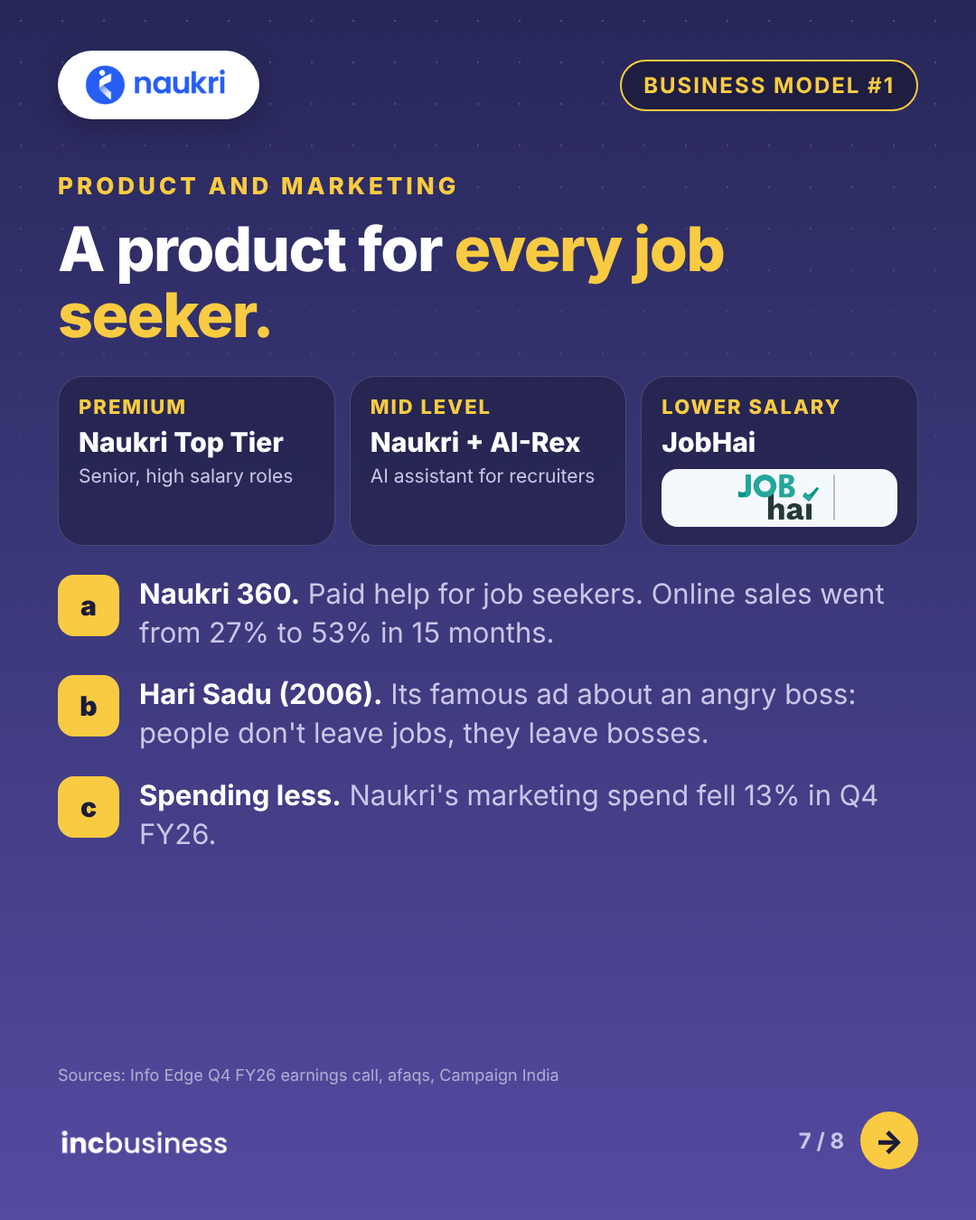
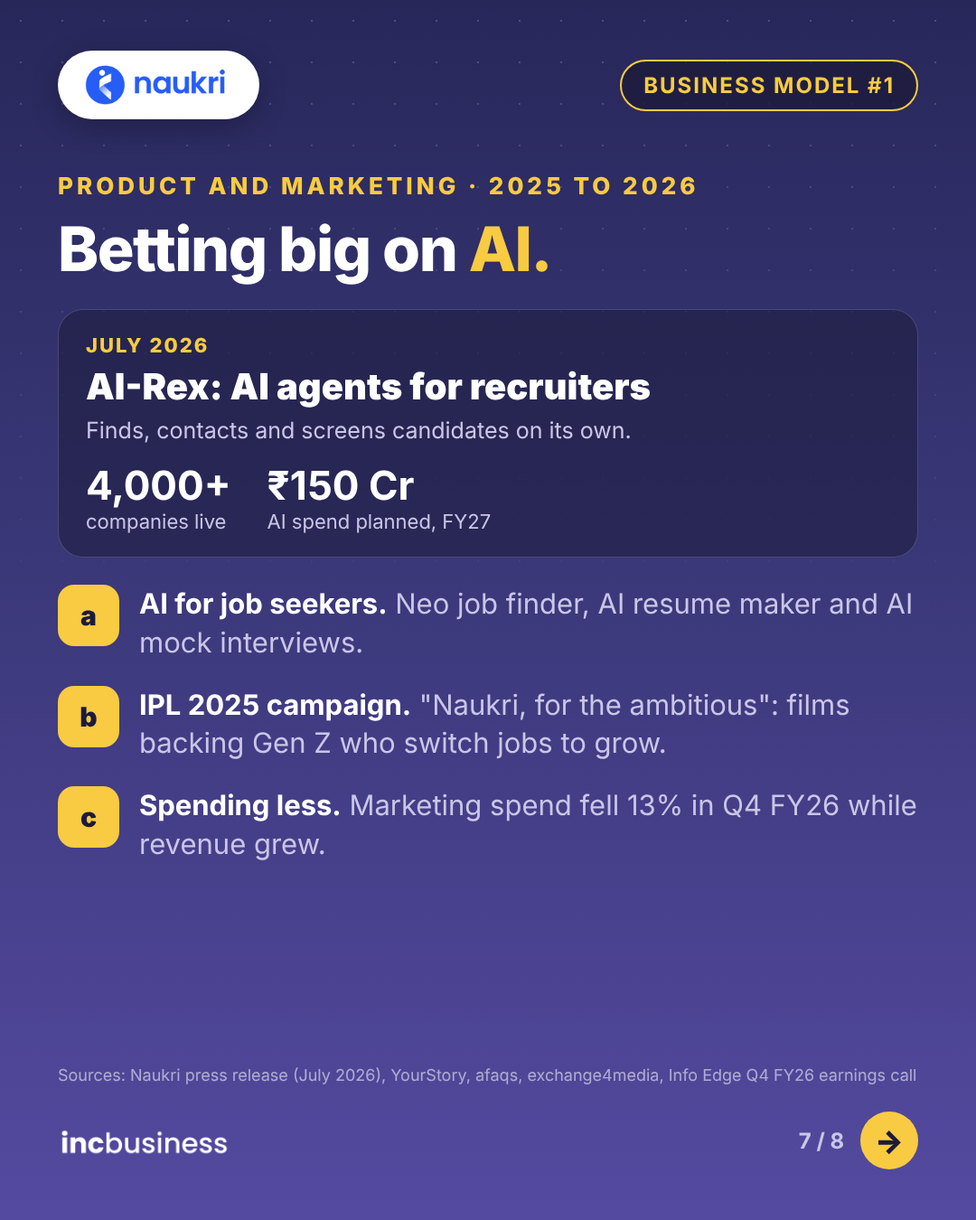
Replace marketing sections with 2025-2026 campaigns and products; update Naukri slide 7
Claude-Session: https://claude.ai/code/session_01LRpu7HcvJNnoqYBKXriVUx

diff --git a/carousels/info-edge/slides.js b/carousels/info-edge/slides.js
@@ -160,32 +160,34 @@ module.exports = {
       source: 'FY26 standalone figures. Source: Info Edge Q4 FY26 earnings call',
     },
 
-    // 7. Product and marketing
+    // 7. Product and marketing (latest: 2025 and 2026)
     {
       css: COMMON + `
-        .tiers { display:grid; grid-template-columns: repeat(3, 1fr); gap: 16px; margin-top: 30px; }
-        .tiers .card { padding: 20px 22px; }
-        .tiers .h { font-size: 22px; font-weight: 800; letter-spacing: 2px; color: var(--amber); }
-        .tiers .b { font-size: 30px; font-weight: 800; margin-top: 8px; }
-        .tiers .s { font-size: 21px; color: var(--sub); margin-top: 6px; line-height:1.3; }
-        .tiers .lt { height: 64px; margin-top: 12px; padding: 6px 12px; }
-        .pts { margin-top: 32px; gap: 26px; }
+        .ai { margin-top: 30px; padding: 26px 30px; }
+        .ai .h { font-size: 22px; font-weight: 800; letter-spacing: 2px; color: var(--amber); }
+        .ai .b { font-size: 40px; font-weight: 900; margin-top: 8px; }
+        .ai .s { font-size: 25px; color: var(--sub); margin-top: 8px; line-height: 1.35; }
+        .ai .nums { display:flex; gap: 40px; margin-top: 16px; }
+        .ai .nums div { font-size: 22px; color: var(--sub); }
+        .ai .nums b { display:block; font-size: 44px; color: #fff; }
+        .pts { margin-top: 30px; gap: 26px; }
         .pt .t { font-size: 31px; }
       `,
       html: `
-        <div class="eyebrow">Product and marketing</div>
-        <h1>A product for <span class="hl">every job seeker.</span></h1>
-        <div class="tiers">
-          <div class="card"><div class="h">PREMIUM</div><div class="b">Naukri Top Tier</div><div class="s">Senior, high salary roles</div></div>
-          <div class="card"><div class="h">MID LEVEL</div><div class="b">Naukri + AI-Rex</div><div class="s">AI assistant for recruiters</div></div>
-          <div class="card"><div class="h">LOWER SALARY</div><div class="b">JobHai</div>${tile('jobhai', 52)}</div>
+        <div class="eyebrow">Product and marketing · 2025 to 2026</div>
+        <h1>Betting big on <span class="hl">AI.</span></h1>
+        <div class="card ai">
+          <div class="h">JULY 2026</div>
+          <div class="b">AI-Rex: AI agents for recruiters</div>
+          <div class="s">Finds, contacts and screens candidates on its own.</div>
+          <div class="nums"><div><b>4,000+</b>companies live</div><div><b>₹150 Cr</b>AI spend planned, FY27</div></div>
         </div>
         <div class="pts">
-          <div class="pt"><div class="k">a</div><div class="t"><b>Naukri 360.</b> <span>Paid help for job seekers. Online sales went from 27% to 53% in 15 months.</span></div></div>
-          <div class="pt"><div class="k">b</div><div class="t"><b>Hari Sadu (2006).</b> <span>Its famous ad about an angry boss: people don't leave jobs, they leave bosses.</span></div></div>
-          <div class="pt"><div class="k">c</div><div class="t"><b>Spending less.</b> <span>Naukri's marketing spend fell 13% in Q4 FY26.</span></div></div>
+          <div class="pt"><div class="k">a</div><div class="t"><b>AI for job seekers.</b> <span>Neo job finder, AI resume maker and AI mock interviews.</span></div></div>
+          <div class="pt"><div class="k">b</div><div class="t"><b>IPL 2025 campaign.</b> <span>"Naukri, for the ambitious": films backing Gen Z who switch jobs to grow.</span></div></div>
+          <div class="pt"><div class="k">c</div><div class="t"><b>Spending less.</b> <span>Marketing spend fell 13% in Q4 FY26 while revenue grew.</span></div></div>
         </div>`,
-      source: 'Sources: Info Edge Q4 FY26 earnings call, afaqs, Campaign India',
+      source: 'Sources: Naukri press release (July 2026), YourStory, afaqs, exchange4media, Info Edge Q4 FY26 earnings call',
     },
 
     // 8. Numbers + CTA

diff --git a/content/blog/apollo-hospitals-business-model.md b/content/blog/apollo-hospitals-business-model.md
@@ -110,21 +110,27 @@ Apollo earns from **three revenue streams**:
 
 ## 7. Apollo Hospitals Product and Marketing Strategy
 
-### a) ProHealth: Bringing Healthy People to Apollo
-- ProHealth is Apollo's preventive health check program. It uses AI to predict health risks and suggest lifestyle changes.
-- In May 2026, Apollo made music composer Anirudh Ravichander the face of ProHealth, to reach young working professionals.
+Here is what Apollo is doing now (2026).
+
+### a) "Always Open, Always Here" (August 2026)
+- Apollo hospitals now offer doctor visits, tests, health checks and planned procedures **on Sundays too**, not just emergencies.
+- The message: you don't have to take a weekday off work to see a doctor.
+
+### b) ProHealth With Anirudh Ravichander (May 2026)
+- ProHealth is Apollo's AI powered health check that predicts health risks early.
+- Music composer Anirudh Ravichander is its new face, to reach young working professionals.
 - The campaign runs on TV, print, digital, FM radio, social media and outdoor ads.
 
-### b) Apollo 24/7 Keeps Patients Connected
-- ProHealth is linked to the Apollo 24/7 app, which sends reminders and tracks progress.
-- The same app is used for doctor consultations, medicine delivery and lab tests, so patients stay with Apollo between hospital visits.
+### c) AI With Microsoft
+- Apollo is building AI copilots with Microsoft for doctors, patients, nurses and hospital operations.
+- In 2026 it opened a 400 bed hospital in Hyderabad's Financial District, built with an AI layer for clinical support.
 
-### c) Health of the Nation Report
-- Apollo publishes a yearly "Health of the Nation" report on health trends in India.
-- It uses the findings, like rising obesity, high blood pressure and early diabetes in young adults, to show why regular health checks matter.
+### d) Apollo 24/7 Keeps Patients Connected
+- ProHealth is linked to the Apollo 24/7 app for reminders and progress tracking.
+- The app handled **₹2,037 crore** of transactions in FY26, up 24%.
 
-### d) Care for International Patients
-- Apollo runs special services and health check packages for patients who travel to India for treatment.
+### e) Health of the Nation Report
+- Apollo's yearly report on India's health. The 2026 edition flags rising obesity, high blood pressure and early diabetes in young professionals, which supports the ProHealth push.
 
 ## 8. Apollo Hospitals Competitors
 
@@ -171,7 +177,7 @@ Hospital chains like Max Healthcare, Fortis, Narayana Health, Medanta, Manipal a
 
 ### Sources
 
-[DSIJ (FY26 results)](https://insights.dsij.in/dsijarticledetail/apollo-hospitals-reports-q4fy26-results-pat-jumps-to-rs-551-crore-announces-rs-10-dividend-id021-57243) · [InvestyWise (FY26 results)](https://www.investywise.com/apollo-hospitals-enterprise-limited-financial-results-and-strategic-developments/) · [The Doctorpreneur Academy](https://thedoctorpreneuracademy.com/apollo-hospitals-reports-strong-quarterly-financial-growth/) · [India Med Today (Q4 segments)](https://indiamedtoday.com/apollo-hospitals-q4-strong-but-expansion-led-margin-pressure-seen-in-fy27/) · [DSIJ report](https://insights.dsij.in/markets/reports/report-details/apollo-hospitals-enterprise-ltd/44073) · [Quartr (FY26 segments)](https://quartr.com/events/apollo-hospitals-enterprise-limited-apollohosp-q4-25-26_FYSsn3Zb) · [AlphaStreet (Q3 FY26)](https://alphastreet.com/india/apollo-hospitals-delivers-strong-q3-fy26-growth-amid-segment-diversification) · [Business Standard broker note (payer mix)](https://bsmedia.business-standard.com/_media/bs/data/market-reports/equity-brokertips/2025-08/17551573320.25509800.pdf) · [Share.Market (Apollo 24/7)](https://www.share.market/buzz/news/apollo-24-7-breakeven/) · [Business Today (AHLL formats)](https://www.businesstoday.in/amp/latest/corporate/story/apollo-health-lifestyle-raises-rs-450-crore-from-ifc-to-fund-expansion-65808-2016-12-02) · [Outlook Business](https://www.outlookbusiness.com/amp/story/corporate/apollo-hospitals-q4-pat-grows-33-to-5513-crore) · [FundsIndia](https://fundsindia.com/blog/equities/alpha-apollo-hospitals-enterprise-ltd-equity-research-desk-4/34237) · [Business Today (founder story)](https://www.businesstoday.in/interactive/photo-essay/doctor-father-entrepreneur-here-s-what-makes-apollo-hospitals-founder-dr-prathap-c-reddy-one-of-india-s-best-known-business-tycoons-192-12-03-2024) · [Financial Express interview (Apollo site)](https://apollohospitals.com/financial-express-interviews-dr-prathap-c-reddy-chairman-apollo-hospitals-group) · [Wikipedia](https://en.wikipedia.org/wiki/Apollo_Hospitals) · [YourStory](https://yourstory.com/2020/08/apollo-hospitals-founder-prathap-reddy) · [Business Standard (Advent)](https://www.business-standard.com/markets/news/apollo-hospitals-slips-8-on-stake-sale-in-ahl-keimed-merger-124042900198_1.html) · [Sahi (listing target)](https://sahi.com/news/apollo-hospitals-targets-25-000-crore-healthco-revenue-and-q4-fy27-demerger-listing-326-PE1_CORP) · [Basis Point](https://www.basispointinsight.com/Story/apollo-demerger-recasts-it-as-a-pure-play-hospital-story_6aaa9dbb589b.html) · [Digital Health News](https://www.digitalhealthnews.com/apollo-healthco-keimed-merger-targets-inr-25-000-cr-revenue-by-fy27) · [The Week (CCI approval)](https://www.theweek.in/wire-updates/business/2025/09/23/dcm134-biz-cci-apollo-hospitals.html) · [Motilal Oswal (peers)](https://www.motilaloswal.com/share-market/peer-comparison/max-healthcare-institute-ltd) · [Value Research (peers)](https://www.valueresearchonline.com/stocks/270996/max-healthcare-institute-ltd/peer-comparison/) · [StartupTalky (MedPlus)](https://startuptalky.com/medplus-success-story/) · [CB Insights](https://www.cbinsights.com/company/net-meds-marketplace/alternatives-competitors)
+[PR Newswire (Always Open, Always Here)](https://www.prnewswire.com/news-releases/apollo-hospitals-launches-always-open-always-here-a-global-first-in-healthcare-from-india-302856496.html) · [The Tribune (Always Open)](https://www.tribuneindia.com/news/business/apollo-hospitals-launches-always-open-always-here-a-global-first-in-healthcare-from-india-2-2) · [MediaBrief (ProHealth, Anirudh)](https://mediabrief.com/apollo-hospitals-names-music-composer-anirudh-ravichander-brand-ambassador-for-prohealth/) · [Apollo press releases](https://www.apollohospitals.com/press-release) · [Digital Health News (Microsoft copilots)](https://www.digitalhealthnews.com/apollo-hospitals-partners-with-microsoft-to-advance-ai-in-healthcare) · [Microsoft (Apollo case study)](https://www.microsoft.com/en-in/aifirstmovers/FY26Apollo) · [Healthcare IT News](https://www.healthcareitnews.com/news/asia/apollo-hospitals-enters-next-phase-digital-transformation) · [DSIJ (FY26 results)](https://insights.dsij.in/dsijarticledetail/apollo-hospitals-reports-q4fy26-results-pat-jumps-to-rs-551-crore-announces-rs-10-dividend-id021-57243) · [InvestyWise (FY26 results)](https://www.investywise.com/apollo-hospitals-enterprise-limited-financial-results-and-strategic-developments/) · [The Doctorpreneur Academy](https://thedoctorpreneuracademy.com/apollo-hospitals-reports-strong-quarterly-financial-growth/) · [India Med Today (Q4 segments)](https://indiamedtoday.com/apollo-hospitals-q4-strong-but-expansion-led-margin-pressure-seen-in-fy27/) · [DSIJ report](https://insights.dsij.in/markets/reports/report-details/apollo-hospitals-enterprise-ltd/44073) · [Quartr (FY26 segments)](https://quartr.com/events/apollo-hospitals-enterprise-limited-apollohosp-q4-25-26_FYSsn3Zb) · [AlphaStreet (Q3 FY26)](https://alphastreet.com/india/apollo-hospitals-delivers-strong-q3-fy26-growth-amid-segment-diversification) · [Business Standard broker note (payer mix)](https://bsmedia.business-standard.com/_media/bs/data/market-reports/equity-brokertips/2025-08/17551573320.25509800.pdf) · [Share.Market (Apollo 24/7)](https://www.share.market/buzz/news/apollo-24-7-breakeven/) · [Business Today (AHLL formats)](https://www.businesstoday.in/amp/latest/corporate/story/apollo-health-lifestyle-raises-rs-450-crore-from-ifc-to-fund-expansion-65808-2016-12-02) · [Outlook Business](https://www.outlookbusiness.com/amp/story/corporate/apollo-hospitals-q4-pat-grows-33-to-5513-crore) · [FundsIndia](https://fundsindia.com/blog/equities/alpha-apollo-hospitals-enterprise-ltd-equity-research-desk-4/34237) · [Business Today (founder story)](https://www.businesstoday.in/interactive/photo-essay/doctor-father-entrepreneur-here-s-what-makes-apollo-hospitals-founder-dr-prathap-c-reddy-one-of-india-s-best-known-business-tycoons-192-12-03-2024) · [Financial Express interview (Apollo site)](https://apollohospitals.com/financial-express-interviews-dr-prathap-c-reddy-chairman-apollo-hospitals-group) · [Wikipedia](https://en.wikipedia.org/wiki/Apollo_Hospitals) · [YourStory](https://yourstory.com/2020/08/apollo-hospitals-founder-prathap-reddy) · [Business Standard (Advent)](https://www.business-standard.com/markets/news/apollo-hospitals-slips-8-on-stake-sale-in-ahl-keimed-merger-124042900198_1.html) · [Sahi (listing target)](https://sahi.com/news/apollo-hospitals-targets-25-000-crore-healthco-revenue-and-q4-fy27-demerger-listing-326-PE1_CORP) · [Basis Point](https://www.basispointinsight.com/Story/apollo-demerger-recasts-it-as-a-pure-play-hospital-story_6aaa9dbb589b.html) · [Digital Health News](https://www.digitalhealthnews.com/apollo-healthco-keimed-merger-targets-inr-25-000-cr-revenue-by-fy27) · [The Week (CCI approval)](https://www.theweek.in/wire-updates/business/2025/09/23/dcm134-biz-cci-apollo-hospitals.html) · [Motilal Oswal (peers)](https://www.motilaloswal.com/share-market/peer-comparison/max-healthcare-institute-ltd) · [Value Research (peers)](https://www.valueresearchonline.com/stocks/270996/max-healthcare-institute-ltd/peer-comparison/) · [StartupTalky (MedPlus)](https://startuptalky.com/medplus-success-story/) · [CB Insights](https://www.cbinsights.com/company/net-meds-marketplace/alternatives-competitors)
 
 ## GEO Schema (copy this)
 
@@ -204,7 +210,7 @@ Hospital chains like Max Healthcare, Fortis, Narayana Health, Medanta, Manipal a
           "name": "Apollo Hospitals Enterprise Ltd"
         }
       ],
-      "wordCount": 1120,
+      "wordCount": 1154,
       "inLanguage": "en-IN"
     },
     {
@@ -353,5 +359,5 @@ Open Graph Description: Hospitals bring in half the money, pharmacies most of th
 Alt Text (hero image): Apollo Hospitals business model overview
 Author: Author Name
 Published Date: 2026-10-17
-Word Count: 1120
+Word Count: 1154
 ```

diff --git a/content/blog/info-edge-business-model.md b/content/blog/info-edge-business-model.md
@@ -91,26 +91,31 @@ Here's how Naukri makes money, and the rest of Info Edge too. Info Edge earns fr
 
 ## 6. Info Edge Product and Marketing Strategy
 
-The Naukri marketing strategy and product plan, in four parts.
+Here is what Naukri and Info Edge are doing now (2025 and 2026).
 
-### a) Naukri: A Product for Every Type of Hiring
-- **Premium jobs:** Naukri Top Tier focuses on senior and high salary roles.
-- **Mid level jobs:** Naukri's core platform, where Info Edge calls itself the clear leader. AI-Rex, an AI assistant, helps recruiters find and screen candidates faster.
+### a) AI-Rex: AI Agents for Recruiters (July 2026)
+- A set of AI agents that refine the job brief, find candidates, reach out to them and screen them.
+- Live with **4,000+ companies and recruitment firms**. Talent Pulse, a tool to compare salaries and plan hiring, has 600+ paying customers.
+
+### b) AI for Job Seekers
+- **Neo**, an AI agent that finds jobs for you, plus an AI resume maker and AI mock interviews.
+- Info Edge spent about ₹70 crore on AI in FY26 and plans about ₹150 crore in FY27.
+
+### c) A Product for Every Type of Hiring
+- **Premium:** Naukri Top Tier for senior, high salary roles.
+- **Mid level:** Naukri's core platform with AI-Rex.
 - **Lower salary jobs:** JobHai, a free jobs app with paid extras.
+- **Naukri 360:** paid help for job seekers. Online sales went from 27% to 53% of this business in 15 months.
 
-### b) Naukri 360: Selling More to Job Seekers
-- Job seekers can pay for resume writing, profile boosts and other help.
-- These services moved to a self serve, online first model. Online sales went from 27% to 53% of this business in 15 months.
+### d) Growing the Other Platforms
+- **99acres:** short property videos (99Shorts) in NCR, plus more resale and rental listings.
+- **Jeevansathi:** AI based matching. It is close to breaking even.
+- **Shiksha:** AI search is cutting its traffic, so it is moving to student counselling and AI voice calls.
 
-### c) Growing the Other Platforms
-- **99acres:** short property videos (99Shorts) in NCR and more resale and rental listings to win more buyers and renters.
-- **Jeevansathi:** AI based matching. It is close to breaking even after years of losses.
-- **Shiksha:** AI search is cutting its website traffic, so it is moving towards student counselling and AI voice calls.
-
-### d) Marketing: From Famous TV Ads to Lower Spending
-- **Hari Sadu (2006):** Naukri's best known ad, about an angry boss, built on one idea: people don't leave jobs, they leave bosses.
-- **Digital and mobile:** later campaigns moved from TV to Facebook, YouTube and mobile.
-- **Spending less:** in Q4 FY26, Naukri's marketing spend fell 13% from a year earlier.
+### e) Marketing: Talking to Gen Z
+- **IPL 2025 campaign:** "All's fair when you love your career", short films by Lowe Lintas that back young people who switch jobs to grow. The tagline: "Naukri, for the ambitious."
+- **Naukri JobSpeak:** a monthly hiring report that the media quotes, which keeps Naukri in the news for free.
+- **Spending less:** Naukri's marketing spend fell 13% in Q4 FY26 while the business kept growing.
 
 ## 7. Info Edge Competitors
 
@@ -158,7 +163,7 @@ LinkedIn, Indeed and foundit in jobs; MagicBricks, Housing.com and NoBroker in p
 
 ### Sources
 
-[Info Edge Q4 FY26 earnings call transcript](https://www.infoedge.in/pdfs/financial_pdfs/f_Earnings/investor-concall-transcript-28May2026.pdf) · [Inc42 (FY26 results)](https://inc42.com/buzz/info-edge-q4-profit-increases-12-to-₹756-cr-declares-dividend-of-₹3-60/) · [Multibagg (FY26)](https://www.multibagg.ai/market-pulse/articles/infoedge-fy26-94689) · [afaqs (Hari Sadu)](https://www.afaqs.com/news/advertising/20590_a-hat-trick-for-hari-sadu) · [Campaign India (Hari Sadu)](https://campaignindia.in/article/hari-sadu-returns-in-naukri-coms-new-campaign/411429) · [Social Samosa (Naukri marketing)](https://www.socialsamosa.com/interviews/infoedge-sumeet-singh-on-naukri-com-marketing-strategy-1512740) · [Wikipedia (Naukri.com)](https://en.wikipedia.org/wiki/Naukri.com) · [Outlook India (founder)](https://outlookindia.com/business/sanjeev-bikhchandani-naukricom-news-298669) · [exchange4media (2006 IPO)](https://www.exchange4media.com/digital-news/naukri.com-promoter-info-edges-issue-oversubscribed-55-times-23717.html) · [Finology (business model)](https://blog.finology.in/entrepreneurship/infoedge-india-ltd-business-model) · [Medianama (competitors)](https://www.medianama.com/2020/02/223-infoedge-earnings-q3fy1920/) · [Online Marketplaces (competitors)](https://www.onlinemarketplaces.com/?p=102316)
+[Naukri AI press release, July 2026 (NSE)](https://nsearchives.nseindia.com/corporate/NAUKRI2_06072026090405_Stock_Exchange_Intimation-_Press_Release.pdf) · [YourStory (AI-Rex launch)](https://yourstory.com/2026/07/naukri-launches-ai-recruitment-platform-india) · [NewsBytes (AI tools)](https://www.newsbytesapp.com/news/science/naukri-launches-ai-tools-to-streamline-hiring-and-job-search/tldr) · [afaqs (IPL 2025 campaign)](https://www.afaqs.com/news/advertising/why-naukris-new-ipl-ad-campaign-validates-gen-zs-job-hopping-culture-9045422) · [exchange4media (IPL 2025 campaign)](https://www.exchange4media.com/ipl-2025-news/naukris-new-ipl-campaign-backs-gen-zs-career-choices-142726.html) · [Naukri JobSpeak](https://www.naukri.com/blog/naukri-jobspeak-white-collar-hiring-opens-2026-with-3-yoy-growth-driven-by-non-it-sectors-and-fresher-hiring/amp) · [Info Edge Q4 FY26 earnings call transcript](https://www.infoedge.in/pdfs/financial_pdfs/f_Earnings/investor-concall-transcript-28May2026.pdf) · [Inc42 (FY26 results)](https://inc42.com/buzz/info-edge-q4-profit-increases-12-to-₹756-cr-declares-dividend-of-₹3-60/) · [Multibagg (FY26)](https://www.multibagg.ai/market-pulse/articles/infoedge-fy26-94689) · [Wikipedia (Naukri.com)](https://en.wikipedia.org/wiki/Naukri.com) · [Outlook India (founder)](https://outlookindia.com/business/sanjeev-bikhchandani-naukricom-news-298669) · [exchange4media (2006 IPO)](https://www.exchange4media.com/digital-news/naukri.com-promoter-info-edges-issue-oversubscribed-55-times-23717.html) · [Finology (business model)](https://blog.finology.in/entrepreneurship/infoedge-india-ltd-business-model) · [Medianama (competitors)](https://www.medianama.com/2020/02/223-infoedge-earnings-q3fy1920/) · [Online Marketplaces (competitors)](https://www.onlinemarketplaces.com/?p=102316)
 
 ## GEO Schema (copy this)
 
@@ -195,7 +200,7 @@ LinkedIn, Indeed and foundit in jobs; MagicBricks, Housing.com and NoBroker in p
           "name": "Naukri.com"
         }
       ],
-      "wordCount": 1020,
+      "wordCount": 1069,
       "inLanguage": "en-IN"
     },
     {
@@ -344,5 +349,5 @@ Open Graph Description: Free for job seekers, paid by recruiters. Here's how Inf
 Alt Text (hero image): Info Edge business model overview
 Author: Author Name
 Published Date: 2026-10-17
-Word Count: 1020
+Word Count: 1069
 ```

diff --git a/content/blog/mamaearth-business-model.md b/content/blog/mamaearth-business-model.md
@@ -91,15 +91,29 @@ c) **The answer: Mamaearth.** In 2016, they launched Mamaearth with 6 toxin free
 | FY25 | ₹2,067 Cr | ₹73 Cr |
 | FY26 | ₹2,392 Cr | ₹200 Cr |
 
-## 6. Mamaearth Marketing Strategy
+## 6. Mamaearth Product and Marketing Strategy
 
-- **Mom bloggers:** the first growth engine, before Instagram influencers existed
-- **Free samples** instead of ads in the early days
-- **Celebrities:** Shilpa Shetty (2018, also an investor), Sara Ali Khan (2021, Onion hair care range)
-- **Digital + TV ads:** about a third of revenue
-- **#PlantGoodness:** a tree for every order on its website & app, **8 lakh+ trees** planted
+Here is what Mamaearth and its parent Honasa are doing now (2025 and 2026).
 
-> "When a mother tells another mother of experience, that has the most trust." (Ghazal Alagh)
+### a) A Celebrity Face for Each Range
+- **Sreeleela for hair care (February 2026):** the actor became the face of Mamaearth's hair care range, starting with a campaign for its Rosemary hair fall shampoo.
+- **Made for social media:** the film, set at a cricket match "Kiss Cam" moment with actor Shantanu Maheshwari, runs on digital and social platforms.
+
+### b) New Brands Beyond Mamaearth
+- **Luminéve:** a new premium night time skincare brand, built by Honasa and sold only on Nykaa.
+- **Reginald Men:** a men's grooming brand Honasa bought in December 2025.
+- **FANG:** a minority stake in an oral care startup, Honasa's first step into premium oral beauty.
+
+### c) Quick Commerce and Small Packs
+- Apps like Blinkit, Zepto and Instamart help Honasa sell smaller, cheaper packs that people try on impulse.
+- Mamaearth plants a tree for every Mamaearth product ordered on Zepto, under its Plant Goodness campaign.
+
+### d) A Bigger Push Into Shops
+- Mamaearth products now reach about **3 lakh retail outlets** (June 2026).
+- In April to June 2026, sales in local shops and supermarkets grew more than 40%.
+
+### e) Heavy, Steady Ad Spending
+- About **33% of revenue** went to advertising in January to March 2026.
 
 ## 7. Mamaearth Competitors
 
@@ -146,7 +160,7 @@ D2C beauty brands like WOW Skin Science, Plum, mCaffeine and The Moms Co, and la
 
 ### Sources
 
-[Bajaj Broking](https://www.bajajbroking.in/share-market-news/honasa-consumer-share-price-jumps-8percentage-after-q4fy26) · [Inc42 FY26](https://inc42.com/buzz/honasa-q4-profit-surges-178-to-₹69-cr-declares-₹3-share-dividend/) · [Multibagg](https://www.multibagg.ai/market-pulse/articles/honasa-q4-fy26-94584) · [Honasa press release (NSE)](https://nsearchives.nseindia.com/corporate/HONASA16_13082026154727_PressRelease.pdf) · [Entrackr](https://entrackr.com/2024/05/mamaearth-parent-honasa-posts-rs-1920-cr-revenue-rs-110-cr-pat-in-fy24) · [Inc42 DRHP](https://inc42.com/buzz/mamaearth-ipo-decoding-the-d2c-giants-drhp) · [Business Today](https://www.businesstoday.in/amp/latest/corporate/story/hum-log-itni-middle-class-ghazal-alagh-sheds-light-on-mamaearths-early-marketing-strategy-418161-2024-02-20) · [Storyboard18](https://www.storyboard18.com/brand-makers/mamaearths-ghazal-alagh-on-word-of-mouth-and-influencer-marketing-24620.htm) · [Angel One](https://www.angelone.in/news/share-market/honasa-consumer-strengthens-r-d-acquisition-cosmogenesis-cosmetics) · [exchange4media](https://www.exchange4media.com/marketing-news/sara-ali-khan-is-the-face-of-mamaearths-haircare-range-112109.html) · [Indian Retailing](https://www.indiaretailing.com/2025/01/03/mamaearth-parners-with-zepto/) · [Entrackr (Minimalist)](https://entrackr.com/news/hul-acquires-905-stake-in-minimalist-at-rs-2955-cr-valuation-8644087) · [Business Standard (IPO)](https://www.business-standard.com/markets/news/mamaearth-parent-honasa-consumer-ipo-subscribed-nearly-7-6-times-123110201176_1.html) · [Business Standard (crash)](https://www.business-standard.com/markets/news/honasa-consumer-stock-tanks-20-hits-52-week-low-on-weak-q2-results-124111800148_1.html)
+[Social Samosa (Sreeleela)](https://www.socialsamosa.com/industry-updates/mamaearth-sreeleela-brand-ambassador-hair-care-range-11081937) · [In Fashion Business (Sreeleela)](https://infashionbusiness.com/home/news_details/7272/14) · [Inc42 (Honasa 2025: Luminéve, Reginald)](https://inc42.com/features/honasas-2025-becoming-more-than-mamaearth) · [Cosmetech (Luminéve, FANG)](https://cosmetech.co.in/?p=235280) · [ScanX (Reginald Men)](https://scanx.trade/stock-market-news/orders-deals/honasa-consumer-board-approves-acquisition-of-btm-ventures-for-95-crores/26997175) · [Honasa Q1 FY27 press release (NSE)](https://nsearchives.nseindia.com/corporate/HONASA16_13082026154727_PressRelease.pdf) · [Bajaj Broking](https://www.bajajbroking.in/share-market-news/honasa-consumer-share-price-jumps-8percentage-after-q4fy26) · [Inc42 FY26](https://inc42.com/buzz/honasa-q4-profit-surges-178-to-₹69-cr-declares-₹3-share-dividend/) · [Multibagg](https://www.multibagg.ai/market-pulse/articles/honasa-q4-fy26-94584) · [Honasa press release (NSE)](https://nsearchives.nseindia.com/corporate/HONASA16_13082026154727_PressRelease.pdf) · [Entrackr](https://entrackr.com/2024/05/mamaearth-parent-honasa-posts-rs-1920-cr-revenue-rs-110-cr-pat-in-fy24) · [Inc42 DRHP](https://inc42.com/buzz/mamaearth-ipo-decoding-the-d2c-giants-drhp) · [Business Today](https://www.businesstoday.in/amp/latest/corporate/story/hum-log-itni-middle-class-ghazal-alagh-sheds-light-on-mamaearths-early-marketing-strategy-418161-2024-02-20) · [Storyboard18](https://www.storyboard18.com/brand-makers/mamaearths-ghazal-alagh-on-word-of-mouth-and-influencer-marketing-24620.htm) · [Angel One](https://www.angelone.in/news/share-market/honasa-consumer-strengthens-r-d-acquisition-cosmogenesis-cosmetics) · [Indian Retailing](https://www.indiaretailing.com/2025/01/03/mamaearth-parners-with-zepto/) · [Entrackr (Minimalist)](https://entrackr.com/news/hul-acquires-905-stake-in-minimalist-at-rs-2955-cr-valuation-8644087) · [Business Standard (IPO)](https://www.business-standard.com/markets/news/mamaearth-parent-honasa-consumer-ipo-subscribed-nearly-7-6-times-123110201176_1.html) · [Business Standard (crash)](https://www.business-standard.com/markets/news/honasa-consumer-stock-tanks-20-hits-52-week-low-on-weak-q2-results-124111800148_1.html)
 
 ## GEO Schema (copy this)
 
@@ -183,7 +197,7 @@ D2C beauty brands like WOW Skin Science, Plum, mCaffeine and The Moms Co, and la
           "name": "Mamaearth"
         }
       ],
-      "wordCount": 856,
+      "wordCount": 996,
       "inLanguage": "en-IN"
     },
     {
@@ -332,5 +346,5 @@ Open Graph Description: ₹2,392 Cr revenue, 6 brands, 3 lakh+ shops and 33% of 
 Alt Text (hero image): Unbranded baby lotion bottle, folded baby blanket, knitted cap and wooden rattle on a white bed in soft morning light
 Author: Author Name
 Published Date: 2026-10-17
-Word Count: 856
+Word Count: 996
 ```

diff --git a/content/blog/manyavar-vedant-fashions-business-model.md b/content/blog/manyavar-vedant-fashions-business-model.md
@@ -93,12 +93,25 @@ Vedant Fashions earns from **selling its clothes through four channels**:
 | FY25 | ₹1,387 Cr | ₹389 Cr |
 | FY26 | ₹1,436 Cr | ₹376 Cr |
 
-## 6. Manyavar Marketing Strategy
+## 6. Manyavar Product and Marketing Strategy
 
-- **Celebrity ambassadors:** Virat Kohli (2016), Ranveer Singh and Amitabh Bachchan (2019)
-- **Emotional, wedding themed campaigns:** "Taiyaar Hokar Aaiye", "Jab Aap Taiyaar Hum Taiyaar" and "Mohey Rang Do"
-- **Cricket:** Official partner of IPL teams since 2013
-- **Content:** "The Manyavar Shaadi Show", a YouTube series hosted by Karan Johar (2025)
+Here is what Manyavar is doing now (2025 and 2026).
+
+### a) Rashmika and Vijay: "Made For Each Other" (March 2026)
+- Mohey signed newly married actors Rashmika Mandanna and Vijay Deverakonda for a wedding themed musical film.
+- The agency behind it says the campaign crossed **300 million views in 72 hours**. It was made and released in under three days, then moved to cinema, print and outdoor ads.
+
+### b) The Manyavar Shaadi Show (Late 2025)
+- A 6 episode YouTube series hosted by Karan Johar about wedding planning, fashion and real stories.
+- It turns Manyavar into wedding content people watch, not just an ad they skip.
+
+### c) New Brands for New Occasions
+- **Diwas:** a festive wear brand for men at value to mid premium prices, sold in multi brand shops and online, with influencer and Blinkit Diwali campaigns.
+- **Twamev:** bigger premium stores, like a 9,000 sq. ft. flagship store in Mumbai (late 2025).
+- **Mebaz:** moving from only wedding wear to clothes for every celebration.
+
+### d) No Discounts, Same Price Everywhere
+- Manyavar still runs **no end of season sales**, and prices are the same online and in stores across India.
 
 ## 7. Manyavar Competitors
 
@@ -145,7 +158,7 @@ Branded ethnic wear labels like Tasva and FabIndia, and the large unorganised ma
 
 ### Sources
 
-[Vedant Fashions investor presentation, Feb 2026](https://vedantfashions.com/wp-content/uploads/2026/02/Vedant-Fashion-Investor-presentation-_Q3-and-9M-FY26.pdf) · [InvestyWise (FY26 results)](https://www.investywise.com/?p=115752) · [FilingReader (FY26 results)](https://filingreader.com/news-wire/mumbai/2026-05-08/vedant-fashions-retail-sales-hit-record-inr-20bn-in-fy26) · [Univest (FY26 results)](https://univest.in/blogs/vedant-fashions-q4-results-fy26-pat-manyavar-2) · [YourStory (founder story)](https://yourstory.com/2023/11/ravi-modi-manyavar-vedant-fashion-journey) · [Third Eye Sight / Forbes India](https://www.thirdeyesight.in/the-untold-story-of-how-ravi-modi-built-vedant-fashions-the-makers-of-manyavar-into-a-3-5-billion-behemoth/) · [Kotak Securities](https://www.kotaksecurities.com/investing-guide/articles/manyavars-dominance) · [Business Standard (IPO)](https://www.business-standard.com/amp/article/markets/manyavar-owner-vedant-fashions-sets-ipo-price-band-at-rs-824-866-per-share-122012801124_1.html) · [Outlook Business (IPO)](https://www.outlookbusiness.com/news/manyavar-owner-vedant-fashions-ipo-to-open-on-february-4-news-47122) · [ICICI Direct IPO review](https://www.icicidirect.com/mailimages/IDirect_VedantFashions_IPOReview.pdf) · [Fibre2Fashion (Virat Kohli)](https://fibre2fashion.com/news/fashion-news/virat-kohli-is-new-brand-ambassador-of-manyavar-202447-newsdetails.htm) · [FashionNetwork (Ranveer Singh)](https://in.fashionnetwork.com/news/Manyavar-signs-ranveer-singh-as-its-new-brand-ambassador,1147423.html) · [FashionNetwork (Amitabh Bachchan)](https://in.fashionnetwork.com/news/Manyavar-names-amitabh-bachchan-as-its-new-brand-ambassador,1152104.html) · [exchange4media](https://www.exchange4media.com/advertising-news/is-manyavars-multiple-brand-ambassador-approach-breaking-the-clutter-or-adding-to-it-100580.html) · [Tasva](https://www.tasva.com/blogs/tasva-blogs/from-tradition-to-trend-how-tasva-is-redefining-ethnic-wear-in-india) · [Porter's Five Forces (competitors)](https://portersfiveforce.com/blogs/competitors/manyavar)
+[exchange4media (Made For Each Other)](https://www.exchange4media.com/industry-briefing-news/manyavar-mohey-launches-new-campaign-with-rashmika-mandanna-and-vijay-deverakonda-152475.html) · [Storyboard18 (Made For Each Other)](https://www.storyboard18.com/amp/brand-makers/newlyweds-vijay-deverakonda-rashmika-mandanna-front-manyavars-only-made-for-each-other-campaign-91232.htm) · [Free Press Journal (300M views)](https://www.freepressjournal.in/press-release/prachar-communications-manyavar-moheys-viral-campaign-featuring-vijay-deverakonda-and-rashmika-mandanna-crosses-300-million-views-across-platforms-in-just-72-hours) · [Republic World](https://www.republicworld.com/lifestyle/vijay-deverakonda-rashmika-mandannas-manyavar-mohey-wedding-campaign-goes-viral-in-just-72-hours-crosses-300-million-views) · [Vedant Fashions investor presentation, Feb 2026](https://vedantfashions.com/wp-content/uploads/2026/02/Vedant-Fashion-Investor-presentation-_Q3-and-9M-FY26.pdf) · [InvestyWise (FY26 results)](https://www.investywise.com/?p=115752) · [FilingReader (FY26 results)](https://filingreader.com/news-wire/mumbai/2026-05-08/vedant-fashions-retail-sales-hit-record-inr-20bn-in-fy26) · [Univest (FY26 results)](https://univest.in/blogs/vedant-fashions-q4-results-fy26-pat-manyavar-2) · [YourStory (founder story)](https://yourstory.com/2023/11/ravi-modi-manyavar-vedant-fashion-journey) · [Third Eye Sight / Forbes India](https://www.thirdeyesight.in/the-untold-story-of-how-ravi-modi-built-vedant-fashions-the-makers-of-manyavar-into-a-3-5-billion-behemoth/) · [Kotak Securities](https://www.kotaksecurities.com/investing-guide/articles/manyavars-dominance) · [Business Standard (IPO)](https://www.business-standard.com/amp/article/markets/manyavar-owner-vedant-fashions-sets-ipo-price-band-at-rs-824-866-per-share-122012801124_1.html) · [Outlook Business (IPO)](https://www.outlookbusiness.com/news/manyavar-owner-vedant-fashions-ipo-to-open-on-february-4-news-47122) · [ICICI Direct IPO review](https://www.icicidirect.com/mailimages/IDirect_VedantFashions_IPOReview.pdf) · [Tasva](https://www.tasva.com/blogs/tasva-blogs/from-tradition-to-trend-how-tasva-is-redefining-ethnic-wear-in-india) · [Porter's Five Forces (competitors)](https://portersfiveforce.com/blogs/competitors/manyavar)
 
 ## GEO Schema (copy this)
 
@@ -182,7 +195,7 @@ Branded ethnic wear labels like Tasva and FabIndia, and the large unorganised ma
           "name": "Manyavar"
         }
       ],
-      "wordCount": 859,
+      "wordCount": 1004,
       "inLanguage": "en-IN"
     },
     {
@@ -331,5 +344,5 @@ Open Graph Description: Franchise stores, no discounts and a 26% profit margin. 
 Alt Text (hero image): Manyavar business model overview
 Author: Author Name
 Published Date: 2026-10-17
-Word Count: 859
+Word Count: 1004
 ```
